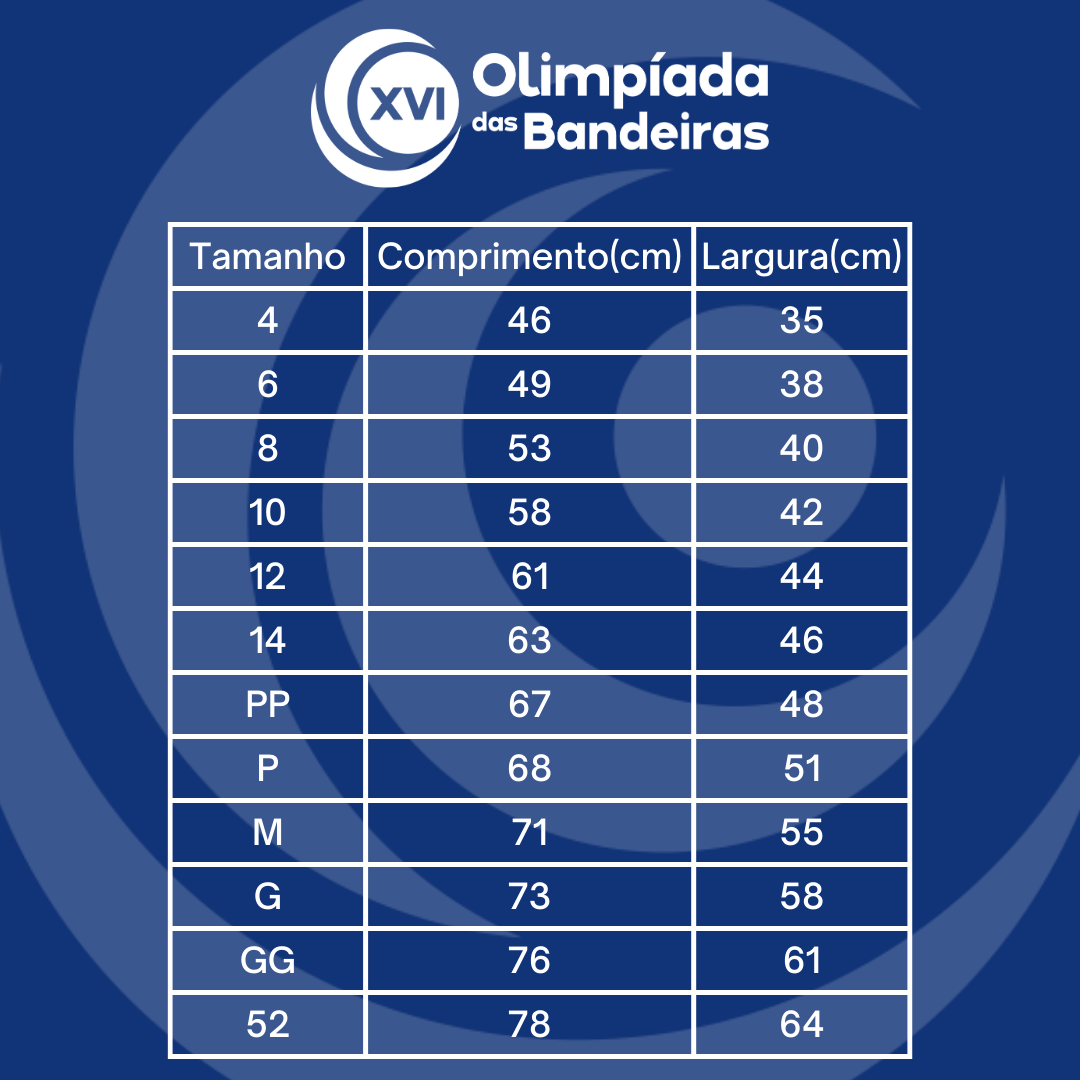
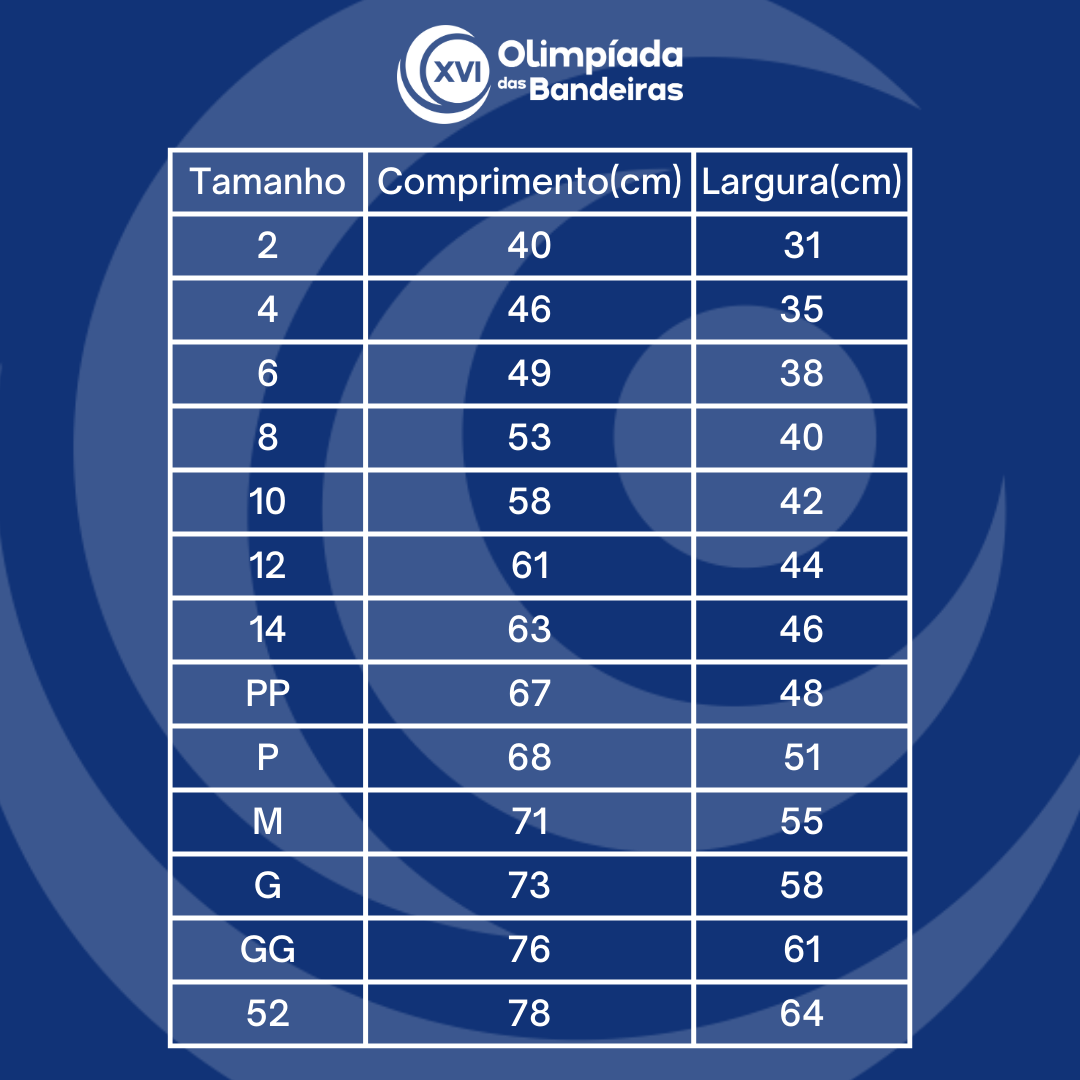
[UPDATE] Show the shirt size in the olympic shirt form

Changed region(s): [[0.1528, 0.0, 0.8556, 1.0]]

diff --git a/src/components/Responsible/components/dashboard/ResponsibleDashboard.tsx b/src/components/Responsible/components/dashboard/ResponsibleDashboard.tsx
@@ -9,7 +9,7 @@ export const ResponsibleDashboard = ({ responsible }: { responsible: any }) => {
     const studentAllowToSeeCatraca = student.course == '1º Ano' || student.course == "2º Ano" || student.course == "3º Ano" || student.course == "4º Ano" || student.course == "5º Ano" || student.course == "6º Ano" || student.course == "7º Ano" || student.course == "8º Ano" || student.course == "9º Ano" || student.course == "1ª Série" || student.course == "2ª Série" || student.course == "3ª Série";
     const studentAllowToSeeNightActivies = student.course == '1º Ano' || student.course == "2º Ano" || student.course == "3º Ano" || student.course == "4º Ano" || student.course == "5º Ano" || student.course == "6º Ano" || student.course == "7º Ano" || student.course == "8º Ano" || student.course == "9º Ano" || student.course == "1ª Série" || student.course == "2ª Série" || student.course == "3ª Série";
     const studentAllowToSeeAuthorizedCarriers = student.course == '1º Ano' || student.course == "2º Ano" || student.course == "3º Ano" || student.course == "4º Ano" || student.course == "5º Ano" || student.course == "6º Ano" || student.course == "7º Ano" || student.course == "8º Ano" || student.course == "9º Ano" || student.course == "1ª Série" || student.course == "2ª Série" || student.course == "3ª Série";
-    const studentAllowToSeeOlympics = /*student.course == "Berçário II" || student.course == "Maternal I" || student.course == "Maternal II" || student.course == "Pré-Escola I" || student.course == "Pré-Escola II" || student.course == '1º Ano' || student.course == "2º Ano" || student.course == "3º Ano" || student.course == "4º Ano" || student.course == "5º Ano" || student.course == "6º Ano" || student.course == "7º Ano" || student.course == "8º Ano" || student.course == "9º Ano" ||*/ student.course == "1ª Série" /*|| student.course == "2ª Série" || student.course == "3ª Série";*/
+    const studentAllowToSeeOlympics = student.course == "Berçário II" || student.course == "Maternal I" || student.course == "Maternal II" || student.course == "Pré-Escola I" || student.course == "Pré-Escola II" || student.course == '1º Ano' || student.course == "2º Ano" || student.course == "3º Ano" || student.course == "4º Ano" || student.course == "5º Ano" || student.course == "6º Ano" || student.course == "7º Ano" || student.course == "8º Ano" || student.course == "9º Ano" || student.course == "1ª Série" || student.course == "2ª Série" || student.course == "3ª Série";
 
     console.log('CURSO: ' + student.course)
     console.log('TURMA: ' + student.class)

diff --git a/src/components/Responsible/components/olympics/shirt/olympic-shirt-form.tsx b/src/components/Responsible/components/olympics/shirt/olympic-shirt-form.tsx
@@ -24,18 +24,19 @@ const shirtSchema = z.object({
 });
 
 const shirtSizes = [
-    { id: 1, name: "4" },
-    { id: 2, name: "6" },
-    { id: 3, name: "8" },
-    { id: 4, name: "10" },
-    { id: 5, name: "12" },
-    { id: 6, name: "14" },
-    { id: 7, name: "PP" },
-    { id: 8, name: "P" },
-    { id: 9, name: "M" },
-    { id: 10, name: "G" },
-    { id: 11, name: "GG" },
-    { id: 12, name: "52" },
+    { id: 1, name: "2" },
+    { id: 2, name: "4" },
+    { id: 3, name: "6" },
+    { id: 4, name: "8" },
+    { id: 5, name: "10" },
+    { id: 6, name: "12" },
+    { id: 7, name: "14" },
+    { id: 8, name: "PP" },
+    { id: 9, name: "P" },
+    { id: 10, name: "M" },
+    { id: 11, name: "G" },
+    { id: 12, name: "GG" },
+    { id: 13, name: "52" },
 ];
 
 
